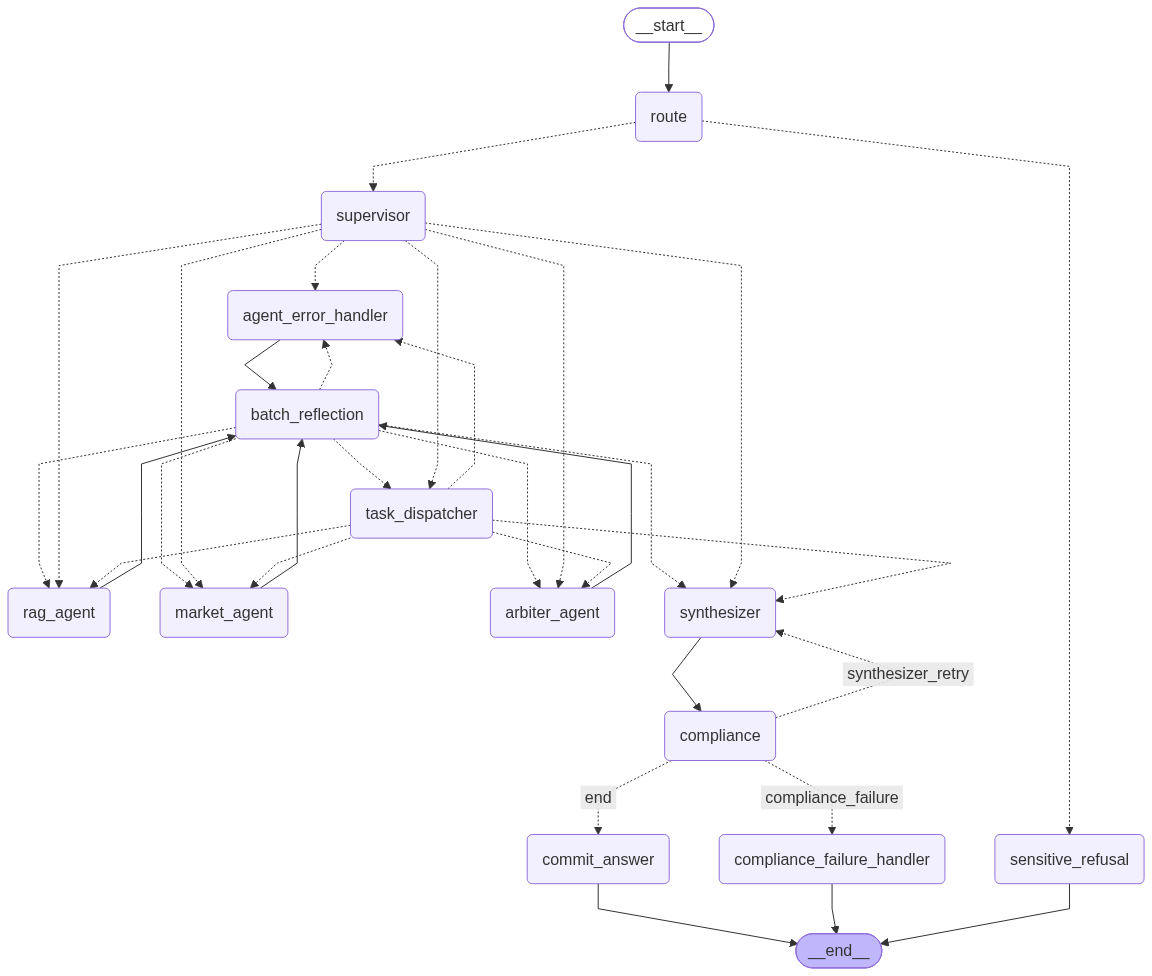
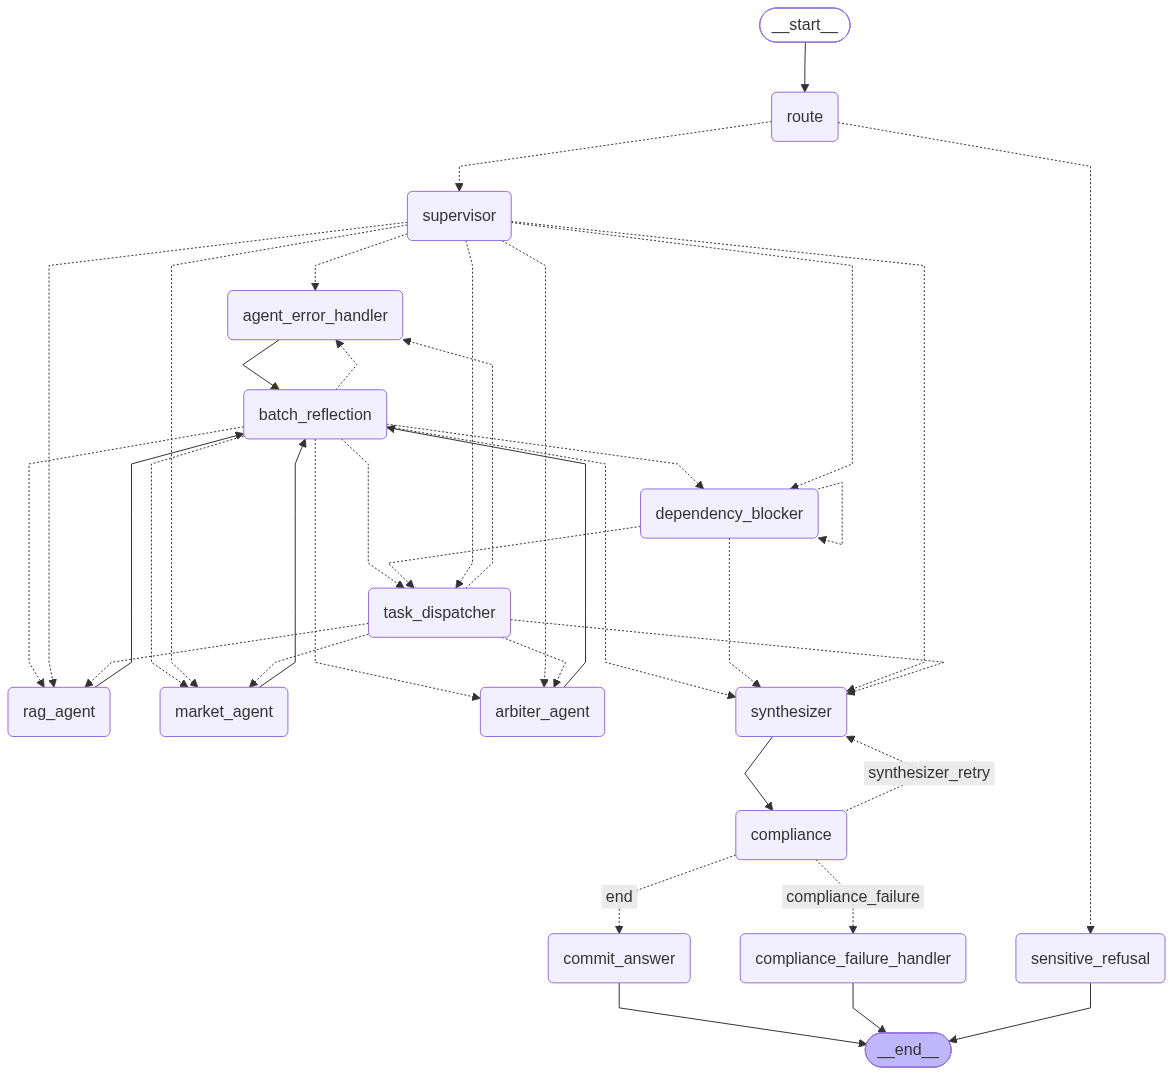
新增依赖阻断器节点及其在任务调度中的连接，优化图形架构

diff --git a/backend/docs/graph_mermaid.md b/backend/docs/graph_mermaid.md
@@ -8,6 +8,7 @@ graph TD;
 	route(route)
 	supervisor(supervisor)
 	task_dispatcher(task_dispatcher)
+	dependency_blocker(dependency_blocker)
 	rag_agent(rag_agent)
 	market_agent(market_agent)
 	arbiter_agent(arbiter_agent)
@@ -24,6 +25,7 @@ graph TD;
 	arbiter_agent --> batch_reflection;
 	batch_reflection -.-> agent_error_handler;
 	batch_reflection -.-> arbiter_agent;
+	batch_reflection -.-> dependency_blocker;
 	batch_reflection -.-> market_agent;
 	batch_reflection -.-> rag_agent;
 	batch_reflection -.-> synthesizer;
@@ -31,12 +33,15 @@ graph TD;
 	compliance -. &nbsp;end&nbsp; .-> commit_answer;
 	compliance -. &nbsp;compliance_failure&nbsp; .-> compliance_failure_handler;
 	compliance -. &nbsp;synthesizer_retry&nbsp; .-> synthesizer;
+	dependency_blocker -.-> synthesizer;
+	dependency_blocker -.-> task_dispatcher;
 	market_agent --> batch_reflection;
 	rag_agent --> batch_reflection;
 	route -.-> sensitive_refusal;
 	route -.-> supervisor;
 	supervisor -.-> agent_error_handler;
 	supervisor -.-> arbiter_agent;
+	supervisor -.-> dependency_blocker;
 	supervisor -.-> market_agent;
 	supervisor -.-> rag_agent;
 	supervisor -.-> synthesizer;
@@ -50,6 +55,7 @@ graph TD;
 	commit_answer --> __end__;
 	compliance_failure_handler --> __end__;
 	sensitive_refusal --> __end__;
+	dependency_blocker -.-> dependency_blocker;
 	classDef default fill:#f2f0ff,line-height:1.2
 	classDef first fill-opacity:0
 	classDef last fill:#bfb6fc
